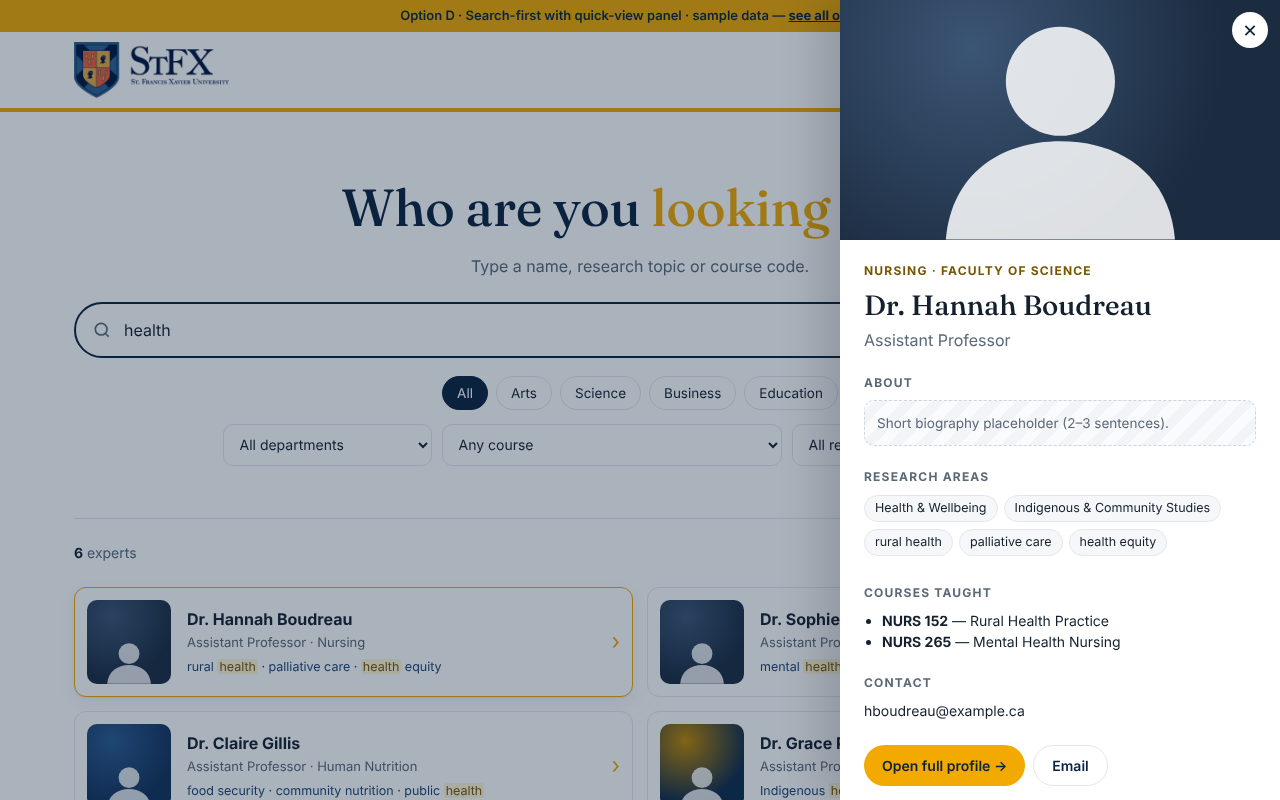
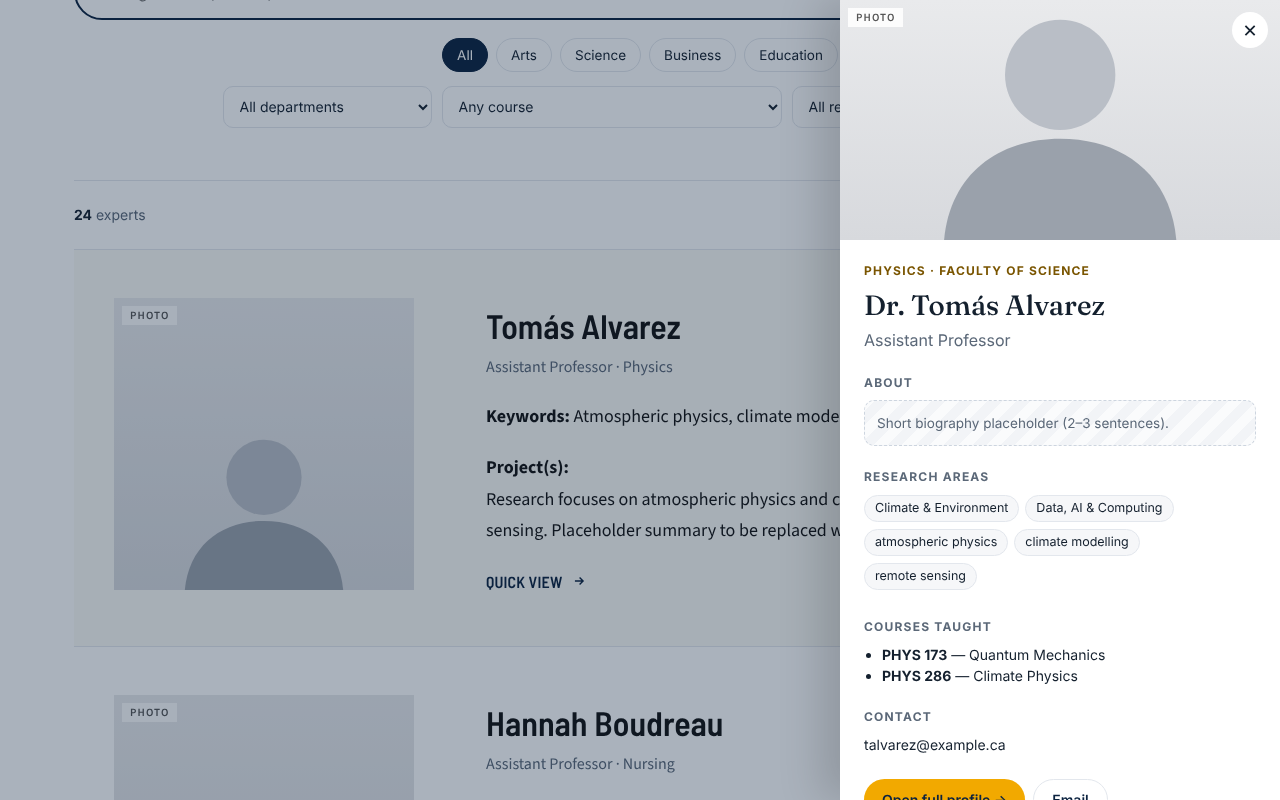
Remove options C and E; Option D: Option F-style one-per-row list with quick-view panel
Claude-Session: https://claude.ai/code/session_01NjDHNBwM5ceZPN2rQtXe2Y

diff --git a/option-d-quickview.html b/option-d-quickview.html
@@ -3,7 +3,7 @@
 <head>
 <meta charset="utf-8"><meta name="viewport" content="width=device-width, initial-scale=1">
 <title>Expert Directory · Option D</title>
-<link href="https://fonts.googleapis.com/css2?family=Fraunces:opsz,wght@9..144,500;9..144,700&family=Inter:wght@400;500;600;700&display=swap" rel="stylesheet">
+<link href="https://fonts.googleapis.com/css2?family=Fraunces:opsz,wght@9..144,500;9..144,700&family=Inter:wght@400;500;600;700&family=Barlow+Semi+Condensed:wght@500;600&family=Source+Sans+3:wght@400;600;700&display=swap" rel="stylesheet">
 <link rel="stylesheet" href="shared.css">
 <style>
   body{background:#fff}
@@ -22,20 +22,26 @@
   .more select{flex:0 1 210px}
   .meta{display:flex;justify-content:space-between;align-items:center;border-top:1px solid var(--line);padding:16px 0;margin-top:26px;font-size:14px;color:var(--muted)}
   .meta b{color:var(--ink)}
-  .list{display:grid;grid-template-columns:repeat(2,1fr);gap:14px}
-  @media (max-width:760px){.list{grid-template-columns:1fr}}
-  .row{display:flex;gap:16px;align-items:center;text-align:left;background:#fff;border:1px solid var(--line);border-radius:var(--radius);padding:12px;cursor:pointer;width:100%;transition:.15s}
-  .row:hover,.row.on{border-color:var(--gold);box-shadow:var(--shadow)}
-  .row .photo{width:84px;height:84px;border-radius:10px;flex:none}
-  .row h3{margin:0;font-size:16px}
-  .row p{margin:2px 0 0;font-size:13px;color:var(--muted)}
-  .row .k{font-size:12.5px;color:var(--navy-2);margin-top:6px}
-  .row .chev{margin-left:auto;color:var(--gold);font-size:22px}
+  /* Expert rows: same look as Option F (one per row, large photo) */
+  .list{border-top:1px solid var(--line)}
+  .xrow{display:grid;grid-template-columns:300px 1fr;gap:72px;align-items:start;padding:48px 0 48px 40px;border-bottom:1px solid var(--line);cursor:pointer;font-family:"Source Sans 3","Source Sans Pro",Arial,sans-serif;font-size:18px;line-height:1.75;color:#111;transition:background .15s}
+  .xrow:hover,.xrow.on{background:#fbfaf6}
+  .xrow:focus-visible{outline:3px solid var(--gold);outline-offset:-3px}
+  .xph{width:300px;max-width:100%;aspect-ratio:300/292;display:grid;place-items:end center;overflow:hidden;position:relative;background:linear-gradient(180deg,#e9eaec,#d7d9dd)}
+  .xph svg{width:66%;display:block}
+  .xph span{position:absolute;left:8px;top:8px;font:600 11px "Source Sans 3",sans-serif;letter-spacing:.1em;text-transform:uppercase;background:rgba(255,255,255,.85);padding:2px 8px;color:#555}
+  .xrow h3{font:600 34px/1.2 "Barlow Semi Condensed","Arial Narrow",sans-serif;margin:8px 0 6px;color:#111}
+  .xrow .sub{font-size:16px;color:var(--muted);margin:0 0 20px}
+  .xrow p{margin:0 0 20px}
+  .xrow .qv{display:inline-flex;align-items:center;gap:10px;font:600 16px "Barlow Semi Condensed",sans-serif;text-transform:uppercase;color:var(--navy);background:none;border:0;padding:0;cursor:pointer;letter-spacing:.01em}
+  .xrow:hover .qv{text-decoration:underline}
+  @media (max-width:1000px){.xrow{gap:40px;padding-left:0}}
+  @media (max-width:760px){.xrow{grid-template-columns:1fr;gap:22px;padding:36px 0}.xph{margin:0 auto}.xrow h3{font-size:28px}}
 
   /* Quick-view drawer */
   .scrim{position:fixed;inset:0;background:rgba(12,35,64,.35);opacity:0;pointer-events:none;transition:.25s;z-index:50}
-  .drawer{position:fixed;top:0;right:0;height:100%;width:min(440px,100%);background:#fff;z-index:51;transform:translateX(100%);transition:.3s;overflow:auto;box-shadow:-20px 0 40px rgba(0,0,0,.15)}
-  body.open .scrim{opacity:1;pointer-events:auto} body.open .drawer{transform:none}
+  .drawer{position:fixed;top:0;right:0;height:100%;width:min(440px,100%);background:#fff;z-index:51;transform:translateX(100%);transition:.3s;overflow:auto;visibility:hidden}
+  body.open .scrim{opacity:1;pointer-events:auto} body.open .drawer{transform:none;visibility:visible;box-shadow:-20px 0 40px rgba(0,0,0,.15)}
   .drawer .photo{height:240px}
   .drawer .x{position:absolute;top:12px;right:12px;width:36px;height:36px;border-radius:50%;border:0;background:#fff;cursor:pointer;font-size:18px;z-index:2}
   .drawer .in{padding:22px 24px 30px}
@@ -79,21 +85,32 @@
 <script>
 const S = {q:'',faculty:'',dept:'',course:'',area:'',sort:'relevance',defaultSort:'relevance'};
 let openId = null;
+const GREY_SIL = `<svg viewBox="0 0 100 90" aria-hidden="true"><circle cx="50" cy="33" r="19" fill="#b9bec6"/><path d="M10 90c2-23 19-35 40-35s38 12 40 35z" fill="#9aa1ab"/></svg>`;
+const projectText = e => { const k=e.keywords; return `Research focuses on ${k[0]} and ${k[1]}${k[2]?`, with projects exploring ${k.slice(2).join(' and ')}`:''}. Placeholder summary to be replaced with the expert’s own description.`; };
+EXPERTS.forEach(e=>e.hay += ' '+norm(projectText(e)));
 function render(){
   document.getElementById('facchips').innerHTML = [['','All']].concat(FACULTIES.map(f=>[f,f]))
     .map(([v,l])=>`<button class="chip ${S.faculty===v?'on':''}" data-f="${v}">${l}</button>`).join('');
   const list = sortExperts(filterExperts(S),S.sort,S.q);
   document.getElementById('count').innerHTML = `<b>${list.length}</b> ${list.length===1?'expert':'experts'}`;
+  const cap = k => k[0].toUpperCase()+k.slice(1);
   document.getElementById('list').innerHTML = list.length ? list.map(e=>`
-    <button class="row ${openId===e.id?'on':''}" data-id="${e.id}">${photo(e)}
-      <div><h3>${hl(e.name,S.q)}</h3><p>${e.rank} · ${hl(e.dept,S.q)}</p><div class="k">${hl(e.keywords.join(' · '),S.q)}</div></div>
-      <span class="chev">›</span></button>`).join('')
-    : `<div class="empty" style="grid-column:1/-1">No matches. <button class="linkbtn" onclick="S.reset()">Clear search</button></div>`;
+    <article class="xrow ${openId===e.id?'on':''}" data-id="${e.id}" tabindex="0" role="button" aria-label="Quick view: ${esc(e.first+' '+e.last)}">
+      <div class="xph" role="img" aria-label="Headshot placeholder"><span>Photo</span>${GREY_SIL}</div>
+      <div>
+        <h3>${hl(e.first+' '+e.last,S.q)}</h3>
+        <div class="sub">${e.rank} · ${hl(e.dept,S.q)}</div>
+        <p><b>Keywords:</b> ${hl(e.keywords.map((k,i)=>i?k:cap(k)).join(', '),S.q)}</p>
+        <p><b>Project(s):</b><br>${hl(projectText(e),S.q)}</p>
+        <span class="qv">Quick view <svg width="14" height="14" viewBox="0 0 24 24" fill="none" stroke="currentColor" stroke-width="2.4"><path d="M5 12h14M13 6l6 6-6 6"/></svg></span>
+      </div>
+    </article>`).join('')
+    : `<div class="empty">No matches. <button class="linkbtn" onclick="S.reset()">Clear search</button></div>`;
 }
 function openDrawer(id){
   const e = EXPERTS.find(x=>x.id===id); openId=id;
   document.getElementById('drawer').innerHTML = `
-    <button class="x" onclick="closeDrawer()" aria-label="Close">✕</button>${photo(e)}
+    <button class="x" onclick="closeDrawer()" aria-label="Close">✕</button><div class="photo xph" style="width:100%;aspect-ratio:auto;height:240px" role="img" aria-label="Headshot placeholder"><span>Photo</span>${GREY_SIL}</div>
     <div class="in"><div class="dept">${e.dept} · Faculty of ${e.faculty}</div><h2>${e.name}</h2><div style="color:var(--muted)">${e.rank}</div>
       <h4>About</h4><div class="ph">Short biography placeholder (2–3 sentences).</div>
       <h4>Research areas</h4><div class="tags">${e.areas.map(a=>`<span>${areaName(a)}</span>`).concat(e.keywords.map(k=>`<span>${k}</span>`)).join('')}</div>
@@ -107,10 +124,10 @@ function closeDrawer(){ document.body.classList.remove('open'); openId=null; ren
 bindControls(S,render);
 document.addEventListener('click',ev=>{
   const f = ev.target.closest('[data-f]'); if(f){S.faculty=f.dataset.f;S.dept='';S.course='';S.fill();render()}
-  const r = ev.target.closest('.row'); if(r) openDrawer(r.dataset.id);
+  const r = ev.target.closest('.xrow'); if(r) openDrawer(r.dataset.id);
 });
 document.getElementById('scrim').onclick = closeDrawer;
-document.addEventListener('keydown',e=>{if(e.key==='Escape')closeDrawer()});
+document.addEventListener('keydown',e=>{if(e.key==='Escape')closeDrawer(); const r=e.target.closest&&e.target.closest('.xrow'); if(r&&(e.key==='Enter'||e.key===' ')){e.preventDefault();openDrawer(r.dataset.id)}});
 render();
 </script>
 </body>

diff --git a/index.html b/index.html
@@ -29,7 +29,7 @@
 <header class="site"><div class="wrap"><a class="brand" href="index.html"><img class="logo-img" src="stfx-logo.png" alt="St. Francis Xavier University" width="172" height="62"></a><span class="site-title">Research Experts</span></div></header>
 <section class="intro"><div class="wrap">
   <h1>Research Experts Directory: design options</h1>
-  <p>Six layouts for the same directory. Every option has keyword search, sort, and filters for faculty, department and course, and each expert links to a profile page. Click any option to try it.</p>
+  <p>Four layouts for the same directory. Every option has keyword search, sort, and filters for faculty, department and course, and each expert links to a profile page. Click any option to try it.</p>
 </div></section>
 <main class="wrap">
   <div class="opts">
@@ -45,20 +45,12 @@
       <span class="l">Option B</span><h2>Simple table</h2><p>A clean, compact staff-directory list. Fastest to scan.</p>
       <ul><li>All filters in one row</li><li>Click column headings to sort</li><li>Stacks into cards on phones</li></ul>
       <span class="go">Open option B →</span></div></a>
-    <a class="opt" href="option-c-departments.html"><img src="thumbs/c.png" alt="Option C preview"><div class="b">
-      <span class="l">Option C</span><h2>Browse by department</h2><p>Closest to the Bishop’s example: experts grouped under department headings.</p>
-      <ul><li>Faculty → department menu on the left</li><li>Photo cards with “View profile”</li><li>Search and course filter on top</li></ul>
-      <span class="go">Open option C →</span></div></a>
     <a class="opt" href="option-d-quickview.html"><img src="thumbs/d.png" alt="Option D preview"><div class="b">
-      <span class="l">Option D</span><h2>Search first + quick view</h2><p>Minimal, Google-style page. Clicking an expert opens a side panel without leaving the page.</p>
-      <ul><li>One big search box + faculty chips</li><li>Quick-view panel with summary and contact</li><li>“Open full profile” for more detail</li></ul>
+      <span class="l">Option D</span><h2>List + quick view</h2><p>Option F’s one-per-row list with large photos. Clicking an expert opens a side panel without leaving the page.</p>
+      <ul><li>Big search box + faculty chips + more filters</li><li>One expert per row with a large photo</li><li>Quick-view panel, then “Open full profile”</li></ul>
       <span class="go">Open option D →</span></div></a>
-    <a class="opt" href="option-e-az.html"><img src="thumbs/e.png" alt="Option E preview"><div class="b">
-      <span class="l">Option E</span><h2>A–Z with “group by”</h2><p>Friendly circular headshots, grouped by letter, faculty or research area.</p>
-      <ul><li>Switch grouping with one click</li><li>Jump links to each section</li><li>Search bar stays visible while scrolling</li></ul>
-      <span class="go">Open option E →</span></div></a>
   </div>
-  <div class="note"><h3>Mix and match</h3>Any piece can move between options: for example, Option C’s department menu with Option D’s quick-view panel, or Option B’s table with Option A’s profile page.</div>
+  <div class="note"><h3>Mix and match</h3>Any piece can move between options: for example, Option F’s layout with Option A’s theme tiles, or Option B’s table with Option F’s profile page.</div>
 </main>
 <footer><div class="wrap">StFX Research · Expertise Directory mockups</div></footer>
 </body>

diff --git a/README.md b/README.md
@@ -9,12 +9,10 @@ Open `index.html` to compare all options.
 | `option-f-classic.html` | **F – Reference layout.** Matches the reference page's layout. A single self-contained file: the list and every profile page are in it. |
 | `option-a-showcase.html` | A – Showcase: hero search, theme tiles, sidebar filters, rich profile |
 | `option-b-table.html` | B – Simple table |
-| `option-c-departments.html` | C – Browse by faculty and department |
-| `option-d-quickview.html` | D – Search first with a quick-view side panel |
-| `option-e-az.html` | E – A–Z with "group by" |
-| `profile.html` | Shared profile page used by options B–E |
+| `option-d-quickview.html` | D – Option F-style list (one per row, large photo) with a quick-view side panel |
+| `profile.html` | Shared profile page used by options B and D |
 
-`shared.js` / `shared.css` hold the sample data and styles used by options B–E. Option F has its own copy of the data inside the file.
+`shared.js` / `shared.css` hold the sample data and styles used by options B and D. Option F has its own copy of the data inside the file.
 
 ## Hosting on GitHub Pages
 
